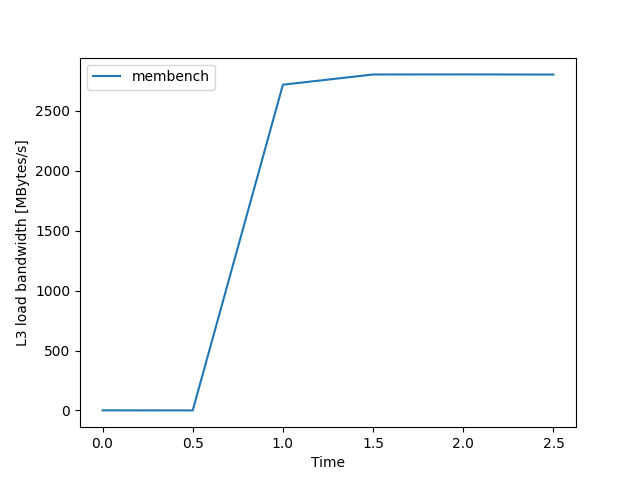
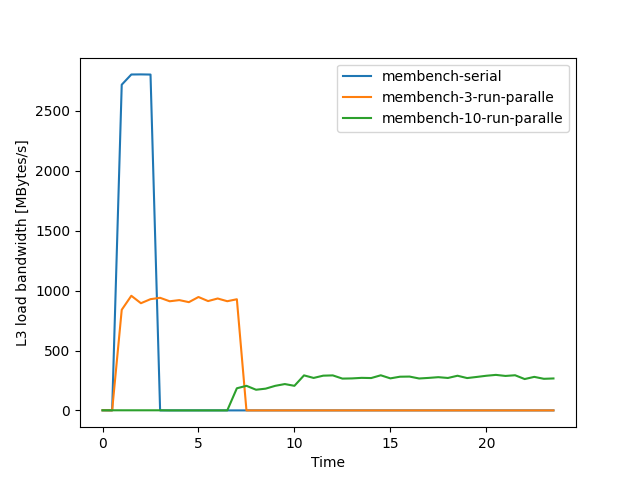
update plot parallel test

diff --git a/test1_parallel/src/plot_test.py b/test1_parallel/src/plot_test.py
@@ -10,42 +10,70 @@ def RepresentsInt(s):
         return True
     except ValueError:
         return False
-out_path="res/membench-timeline.out"
-res_path="res/membench-timeline.err"
-time_lime_mode_option=1
+    
+def RepresentsFloat(s):
+    try: 
+        float(s)
+        return True
+    except ValueError:
+        return False
 
-f = open(out_path, "r")
-max_time=0
-for line in f:
-    arr=line.split(" ")
-    # print(arr)
-    if("Size:" in arr[0]):
-        max_time=float(arr[11].replace(',',''))
+def get_data_timeline(out_path,err_path):
 
-f.close()
+    f = open(out_path, "r")
+    max_time=0
+    for line in f:
+        arr=line.split(" ")
+        # print(arr)
+        if("Size:" in arr[0]):
+            if(RepresentsFloat(arr[11].replace(',','')) == True):
+                max_time=float(arr[11].replace(',',''))
+            else:
+                max_time=float(arr[9].replace(',',''))
+            break
 
-print(max_time)
+    f.close()
+
+    print(max_time)
+
+    f = open(err_path, "r")
+    time_line=np.arange(0, int(max_time)+2, 0.5)
+    bandwith_list=[]
+    count=len(time_line)
+    for line in f:
+        arr=line.split(" ")
+        if( RepresentsInt(arr[0]) and count!=0):
+            bandwith_list=  append(bandwith_list,float(arr[8]))
+            count-=1
+        if(count==0):
+            break
 
 
-f = open(res_path, "r")
-time_line=np.arange(0, int(max_time+1), 0.5)
-bandwith_list=[]
-
-for line in f:
-    arr=line.split(" ")
-    if( RepresentsInt(arr[0])):
-        bandwith_list=  append(bandwith_list,float(arr[8]))
-        
-f.close()
-print(time_line)
-print(bandwith_list)
+    f.close()
+    print(count)
+    print(bandwith_list)
+    return time_line,bandwith_list
 
 
+print("Time serial run")
+time_line_serial, bandwith_list_serial = get_data_timeline("../../test1/src/res/membench-timeline.out","../../test1/src/res/membench-timeline.err")
+print("Time parallel run1")
+time_line_parallel1, bandwith_list_parallel1 = get_data_timeline("res/out/slurm-1214488_0.out","res/err/slurm-1214488_0.err")
+print("Time parallel run2")
+time_line_parallel2, bandwith_list_parallel2 = get_data_timeline("task_res/test_parallel.out","task_res/test_parallel.err")
+
+expand_serial=np.append(bandwith_list_serial,np.zeros(len(time_line_parallel2)-len(bandwith_list_serial)) ) 
+expand_parallel1=np.append(bandwith_list_parallel1,np.zeros(len(time_line_parallel2)-len(bandwith_list_parallel1)) ) 
+expand_parallel2=np.append(bandwith_list_parallel2,np.zeros(len(time_line_parallel2)-len(bandwith_list_parallel2)) ) 
+# print(len(expand_serial))
+# print(len(expand_parallel))
+# print(len(time_line_parallel))
 plt.ylabel("L3 load bandwidth [MBytes/s]")
 plt.xlabel("Time")
 # plt.yscale('log')
-plt.plot(time_line, bandwith_list, label="membench")
-
+plt.plot(time_line_parallel2, expand_serial, label="membench-serial")
+plt.plot(time_line_parallel2, expand_parallel1, label="membench-3-run-paralle")
+plt.plot(time_line_parallel2, expand_parallel2, label="membench-10-run-paralle")
 plt.legend()
 plt.savefig('plot/plot_bandwith.png')
 plt.show()

diff --git a/test1/src/plot_test.py b/test1/src/plot_test.py
@@ -12,7 +12,6 @@ def RepresentsInt(s):
         return False
 out_path="res/membench-timeline.out"
 res_path="res/membench-timeline.err"
-time_lime_mode_option=1
 
 f = open(out_path, "r")
 max_time=0
